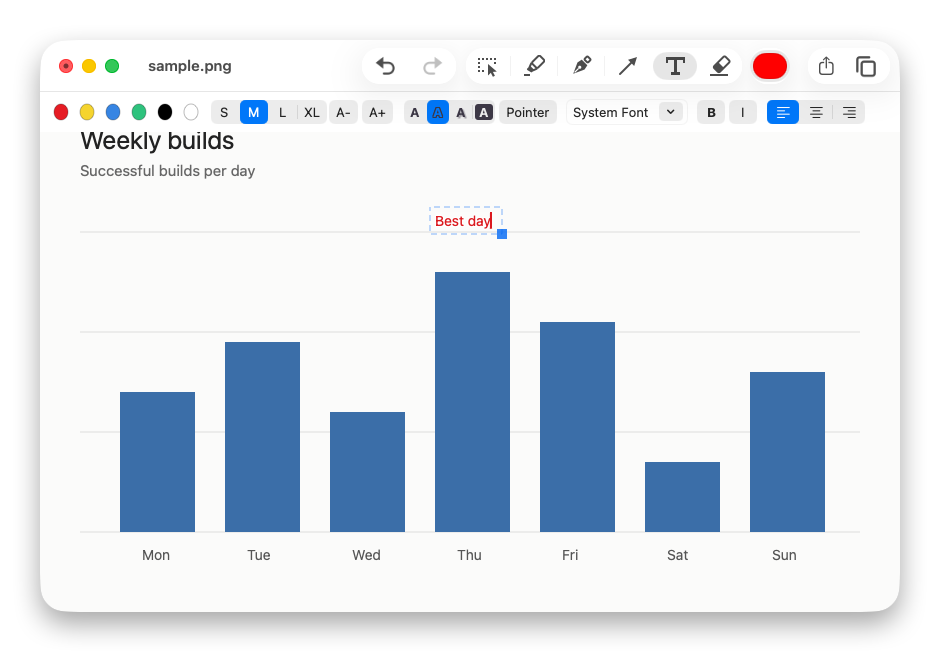
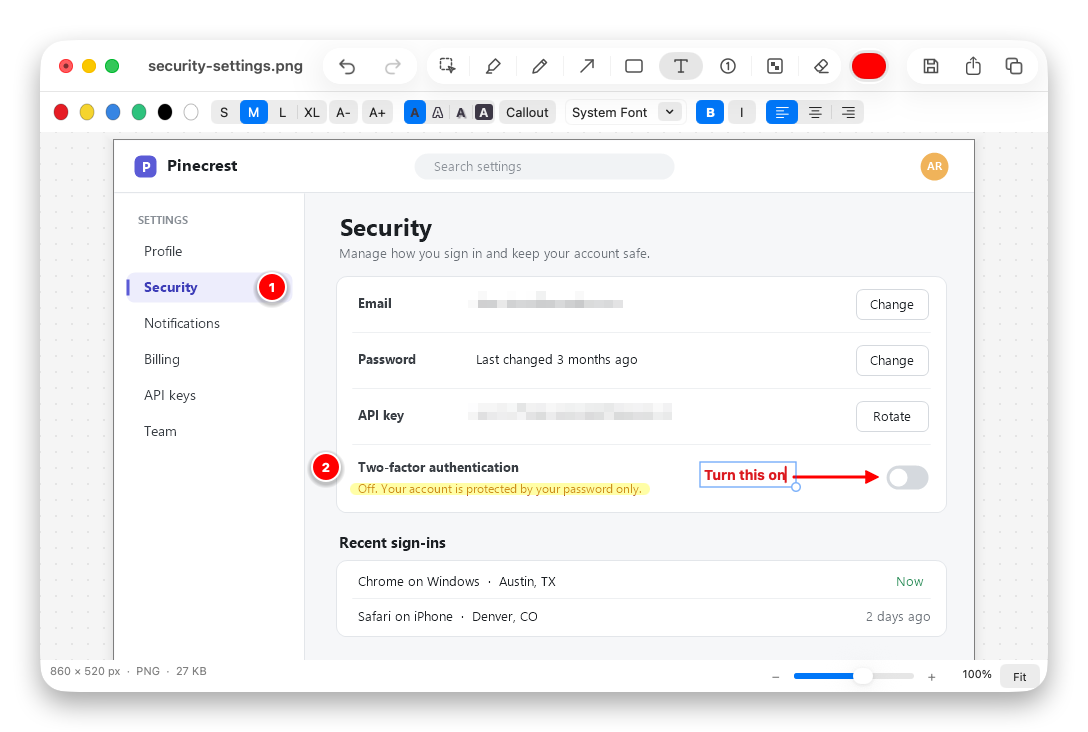
README: macOS screenshots on v0.3.0, with the shared sample
The macOS shots now show the 0.3.0 window (nine tools, the Save, Share and
Copy group, the status bar) on the Pinecrest settings sample the Windows
shots use, with the same markup: two redactions, a highlight, steps 1 and
2, an arrow, and a bold "Turn this on" label. The hero catches the label
being typed; the dark one has the highlighter's settings open over the
finished markup.

Tools/screenshots_macos.sh opens the shared sample instead of drawing the
chart (chart.swift goes), and Scenes.m sets the markup up without going
through the text bar, which would save its choices as the user's defaults.

Claude-Session: https://claude.ai/code/session_018EmrkpJHpnjfzp2nKMV81L

diff --git a/Tools/macos-screenshots/Scenes.m b/Tools/macos-screenshots/Scenes.m
@@ -1,9 +1,11 @@
 // Sets up a screen for Tools/screenshots_macos.sh, loaded into the app with DYLD_INSERT_LIBRARIES.
 //
-//   SCREENSHOT_SCENE=text      the text tool, a red label being typed (the text bar shows)
-//   SCREENSHOT_SCENE=popover   the highlighter's settings popover
+//   SCREENSHOT_SCENE=text      the sample marked up, with "Turn this on" being typed (the text bar shows)
+//   SCREENSHOT_SCENE=popover   the same markup finished, and the highlighter's settings popover
 //   SCREENSHOT_DARK=1          dark mode, for the app only
 //
+// The markup is the README's shared scene, as the Windows shots have it, in the sample's pixels
+// (Tools/screenshot-sample/security-settings.png, origin at the top left).
 // The app's own classes are reached by name: this is built on its own, not with the app.
 
 #import <AppKit/AppKit.h>
@@ -31,42 +33,72 @@ static NSView *STFindView(NSView *view, Class cls) {
     return nil;
 }
 
-static void STSceneText(void) {
-    NSWindow *window = STMainWindow();
-    [window makeKeyAndOrderFront:nil];
-    ((void (*)(id, SEL, NSInteger))objc_msgSend)(NSApp.delegate, NSSelectorFromString(@"selectTool:"), 3); // Text
-    NSView *canvas = STFindView(window.contentView, NSClassFromString(@"ScreenshotCanvasView"));
-    [canvas setValue:[NSColor colorWithSRGBRed:0.86 green:0.10 blue:0.12 alpha:1.0] forKey:@"textColor"];
-    // Once the window is key, so the label keeps the keyboard.
-    dispatch_after(dispatch_time(DISPATCH_TIME_NOW, (int64_t)(0.5 * NSEC_PER_SEC)), dispatch_get_main_queue(), ^{
-        ((void (*)(id, SEL, NSRect, id))objc_msgSend)(canvas, NSSelectorFromString(@"beginTextEntryWithImageRect:existingText:"),
-                                                      NSMakeRect(395.0, 120.0, 1.0, 1.0), nil);
-        ((BOOL (*)(id, SEL))objc_msgSend)(canvas, NSSelectorFromString(@"focusActiveTextView"));
-        NSTextView *textView = [canvas valueForKey:@"activeTextView"];
-        [textView insertText:@"Best day" replacementRange:NSMakeRange(NSNotFound, 0)];
-    });
+static NSString *STColorString(NSColor *color) {
+    NSColor *rgb = [color colorUsingColorSpace:[NSColorSpace deviceRGBColorSpace]] ?: color;
+    return [NSString stringWithFormat:@"%f,%f,%f,%f", rgb.redComponent, rgb.greenComponent, rgb.blueComponent, rgb.alphaComponent];
 }
 
-/// A double click on the tool switcher's highlighter segment, which opens its settings.
-static void STScenePopover(void) {
+static void STAddStroke(NSView *canvas, NSDictionary *representation) {
+    id stroke = ((id (*)(id, SEL, id))objc_msgSend)(NSClassFromString(@"MarkupStroke"),
+                                                     NSSelectorFromString(@"strokeWithProjectRepresentation:"), representation);
+    NSUInteger count = [[canvas valueForKey:@"strokes"] count];
+    ((void (*)(id, SEL, id, NSUInteger, BOOL, id))objc_msgSend)(canvas,
+        NSSelectorFromString(@"insertStroke:atIndex:registeringUndo:actionName:"), stroke, count, NO, @"Scene");
+}
+
+/// Redact the email and API key, highlight the 2FA status, number two steps and point at the toggle,
+/// each in the colour and width its tool has by default.
+static void STAddMarkup(NSView *canvas) {
+    NSString *pen = STColorString([canvas valueForKey:@"penColor"]);
+    NSNumber *penWidth = [canvas valueForKey:@"penLineWidth"];
+    NSString *highlighter = STColorString([canvas valueForKey:@"highlighterColor"]);
+    NSNumber *highlighterWidth = [canvas valueForKey:@"highlighterLineWidth"];
+    // Types: 1 highlighter, 2 arrow, 4 step, 5 redact.
+    STAddStroke(canvas, @{ @"type": @5, @"color": pen, @"lineWidth": penWidth, @"points": @[@[@354, @151], @[@548, @177]] });
+    STAddStroke(canvas, @{ @"type": @5, @"color": pen, @"lineWidth": penWidth, @"points": @[@[@354, @263], @[@568, @289]] });
+    STAddStroke(canvas, @{ @"type": @1, @"color": highlighter, @"lineWidth": highlighterWidth,
+                           @"points": @[@[@242, @349], @[@530, @349]] });
+    STAddStroke(canvas, @{ @"type": @4, @"color": pen, @"lineWidth": penWidth, @"number": @1, @"points": @[@[@158, @147]] });
+    STAddStroke(canvas, @{ @"type": @4, @"color": pen, @"lineWidth": penWidth, @"number": @2, @"points": @[@[@212, @327]] });
+    STAddStroke(canvas, @{ @"type": @2, @"color": pen, @"lineWidth": penWidth, @"points": @[@[@680, @337], @[@764, @337]] });
+}
+
+/// The text tool typing "Turn this on" left of the arrow: red, M, bold, no outline. Set on the canvas
+/// rather than through the text bar, which would save them as the user's defaults.
+static void STTypeLabel(NSView *canvas) {
+    ((void (*)(id, SEL, NSInteger))objc_msgSend)(NSApp.delegate, NSSelectorFromString(@"selectTool:"), 3); // Text
+    [canvas setValue:[NSColor colorWithSRGBRed:0.86 green:0.10 blue:0.12 alpha:1.0] forKey:@"textColor"];
+    [canvas setValue:@2 forKey:@"textSizePreset"]; // M
+    [canvas setValue:@0 forKey:@"textStyle"];      // Plain
+    NSFont *font = [canvas valueForKey:@"textFont"] ?: [NSFont systemFontOfSize:18.0];
+    [canvas setValue:[[NSFontManager sharedFontManager] convertFont:font toHaveTrait:NSBoldFontMask] forKey:@"textFont"];
+    ((void (*)(id, SEL, NSRect, id))objc_msgSend)(canvas, NSSelectorFromString(@"beginTextEntryWithImageRect:existingText:"),
+                                                  NSMakeRect(590.0, 326.0, 1.0, 1.0), nil);
+    ((BOOL (*)(id, SEL))objc_msgSend)(canvas, NSSelectorFromString(@"focusActiveTextView"));
+    NSTextView *textView = [canvas valueForKey:@"activeTextView"];
+    [textView insertText:@"Turn this on" replacementRange:NSMakeRange(NSNotFound, 0)];
+}
+
+static void STRunScene(NSString *name) {
     NSWindow *window = STMainWindow();
     [window makeKeyAndOrderFront:nil];
-    for (NSToolbarItem *item in window.toolbar.items) {
-        if (![item.view isKindOfClass:[NSSegmentedControl class]]) {
-            continue;
+    NSView *canvas = STFindView(window.contentView, NSClassFromString(@"ScreenshotCanvasView"));
+    STAddMarkup(canvas);
+    // Once the window is key, so the label keeps the keyboard.
+    dispatch_after(dispatch_time(DISPATCH_TIME_NOW, (int64_t)(0.5 * NSEC_PER_SEC)), dispatch_get_main_queue(), ^{
+        STTypeLabel(canvas);
+        if (![name isEqualToString:@"popover"]) {
+            return;
         }
-        NSSegmentedControl *control = (NSSegmentedControl *)item.view;
-        NSInteger segment = 1; // Highlighter
-        CGFloat x = 0.0;
-        for (NSInteger index = 0; index < segment; index++) {
-            x += [control widthForSegment:index];
-        }
-        NSPoint point = [control convertPoint:NSMakePoint(x + [control widthForSegment:segment] * 0.5, NSMidY(control.bounds))
-                                       toView:nil];
-        NSEvent *click = [NSEvent mouseEventWithType:NSEventTypeLeftMouseDown location:point modifierFlags:0 timestamp:0
-                                        windowNumber:window.windowNumber context:nil eventNumber:0 clickCount:2 pressure:1.0];
-        [control mouseDown:click];
-    }
+        dispatch_after(dispatch_time(DISPATCH_TIME_NOW, (int64_t)(0.5 * NSEC_PER_SEC)), dispatch_get_main_queue(), ^{
+            // Choosing the highlighter finishes the label.
+            ((void (*)(id, SEL, NSInteger))objc_msgSend)(NSApp.delegate, NSSelectorFromString(@"selectTool:"), 0);
+            dispatch_after(dispatch_time(DISPATCH_TIME_NOW, (int64_t)(0.5 * NSEC_PER_SEC)), dispatch_get_main_queue(), ^{
+                // What the colour button's click does: the current tool's settings.
+                ((void (*)(id, SEL, id))objc_msgSend)(NSApp.delegate, NSSelectorFromString(@"showActiveToolColorSettings:"), nil);
+            });
+        });
+    });
 }
 
 __attribute__((constructor)) static void STScenesLoad(void) {
@@ -82,10 +114,6 @@ __attribute__((constructor)) static void STScenesLoad(void) {
     });
     NSString *name = @(scene);
     dispatch_after(dispatch_time(DISPATCH_TIME_NOW, (int64_t)(2.5 * NSEC_PER_SEC)), dispatch_get_main_queue(), ^{
-        if ([name isEqualToString:@"text"]) {
-            STSceneText();
-        } else if ([name isEqualToString:@"popover"]) {
-            STScenePopover();
-        }
+        STRunScene(name);
     });
 }
